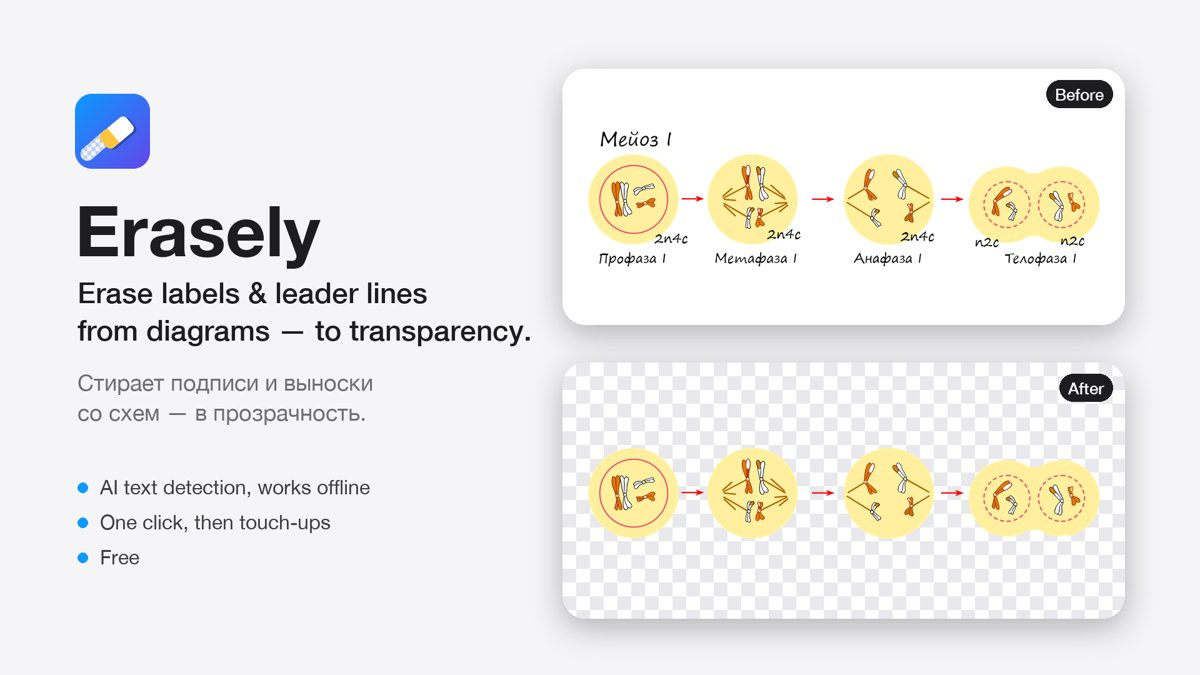
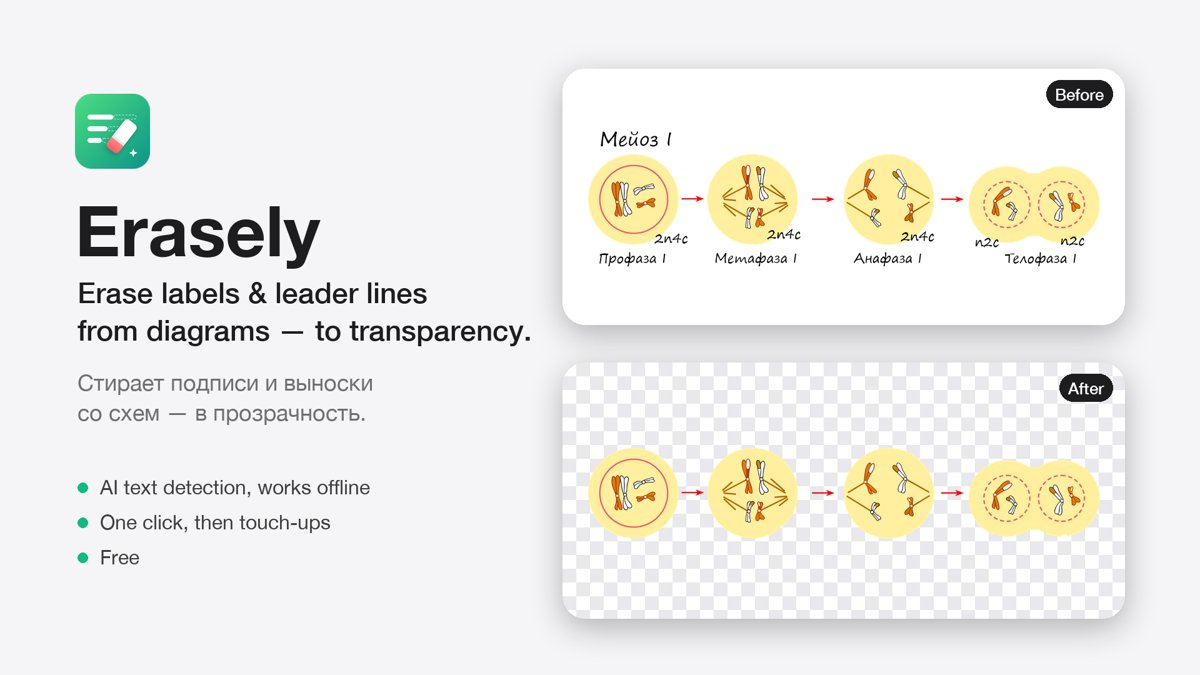
Новый логотип Erasely
Зелёный значок: строки подписей, ластик стирает их в прозрачность, искорка.
Иконка, фавикон (SVG) и превью для соцсетей.

Changed region(s): [[0.0617, 0.1244, 0.1233, 0.2489], [0.0617, 0.8089, 0.0925, 0.84], [0.0617, 0.7156, 0.0925, 0.7467]]

diff --git a/index.html b/index.html
@@ -8,7 +8,8 @@
 <meta property="og:title" content="Erasely — немая схема за один клик">
 <meta property="og:description" content="Стирает подписи и выноски со схем в прозрачность. Бесплатный плагин Figma для репетиторов и учителей.">
 <meta property="og:image" content="img/og.jpg">
-<link rel="icon" href="img/erasely.png">
+<link rel="icon" href="img/erasely.svg" type="image/svg+xml">
+<link rel="apple-touch-icon" href="img/erasely-512.png">
 <style>
   :root {
     --bg: #ffffff; --bg2: #f5f5f7; --card: #ffffff; --ink: #1d1d1f; --ink2: #6e6e73; --line: #d2d2d7;
